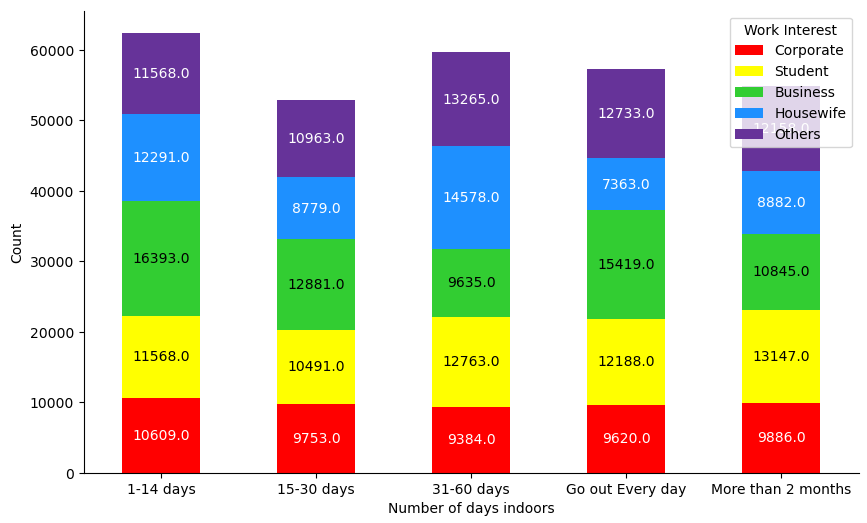
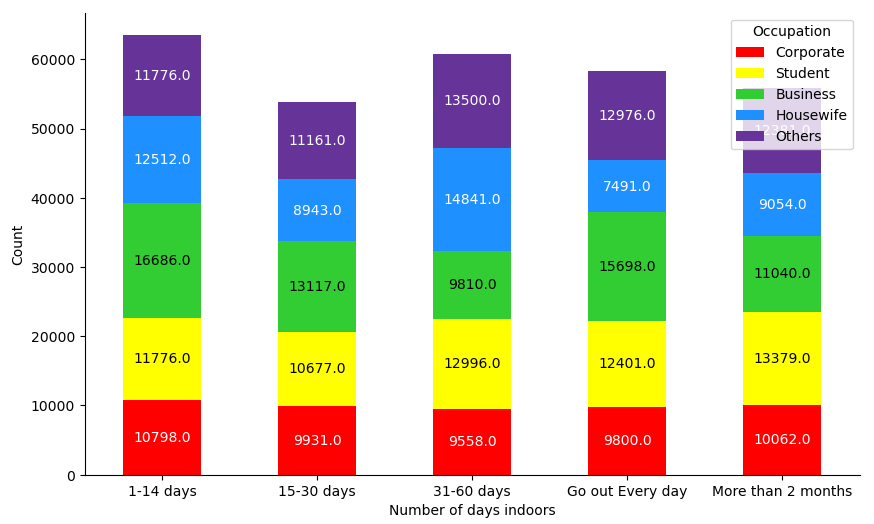
Added TOC

diff --git a/projects/_posts/2024-04-06-mental-health.md b/projects/_posts/2024-04-06-mental-health.md
@@ -12,6 +12,9 @@ permalink: /projects/2023-04-06-mental-health/
 ---
 # Mental health study and behaviours
 
+* this unordered seed list will be replaced by the toc
+{:toc}
+
 ## Introduction
 
 Welcome to my first project published on my portfolio website! Having been learning data analysis, I decided to use my skills to learn about a topic that is very important to both myself but the Unitied Kingdom iteslf especially in the wake of the Covid 19 pandamic. The mental health of people around the world.
@@ -312,7 +315,7 @@ for i, c in enumerate(ax.containers):
     ax.bar_label(c, labels=labels, label_type='center', color=label_colors[i])
 
 # set the location of the legend
-ax.legend(title='Work Interest', labels=legend, loc='upper right')
+ax.legend(title='Occupation', labels=legend, loc='upper right')
 
 # Remove the top and right spines
 ax.spines['top'].set_visible(False)
